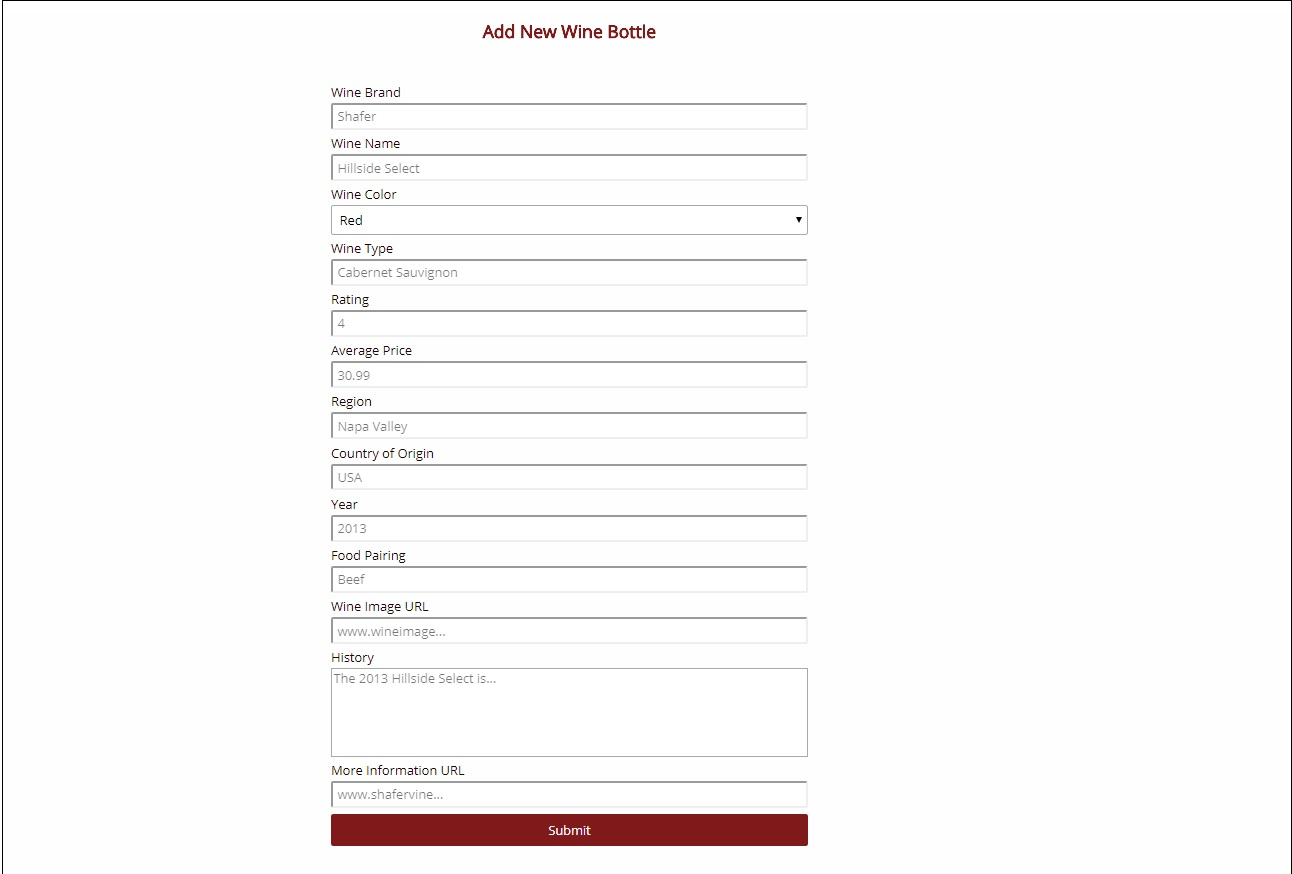
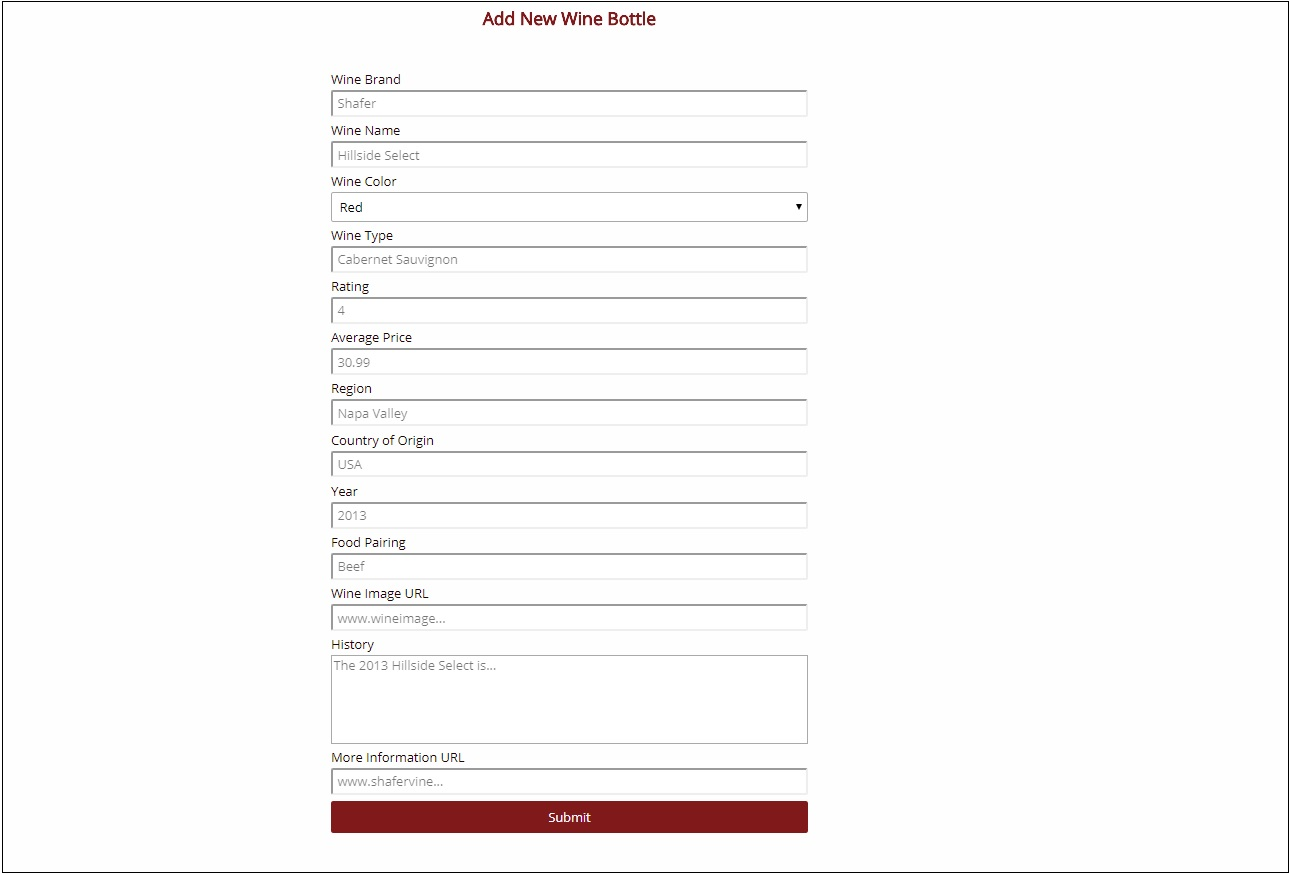
Reinsert screenshot for formatting

diff --git a/README.md b/README.md
@@ -24,7 +24,8 @@ Edit Wine Label:
 Single Wine Result:
 ![Single Wine Result](https://raw.githubusercontent.com/RyanOkamuro/wine_select/feature/mockdata-test/images/Wine_Select_Single_Wine_Result.JPG)
 
-
+Add New Bottle:
+![Add New Bottle](https://raw.githubusercontent.com/RyanOkamuro/wine_select/feature/mockdata-test/images/Wine_Select_Add_New_Bottle.JPG)
 
 Built With
 ----------
